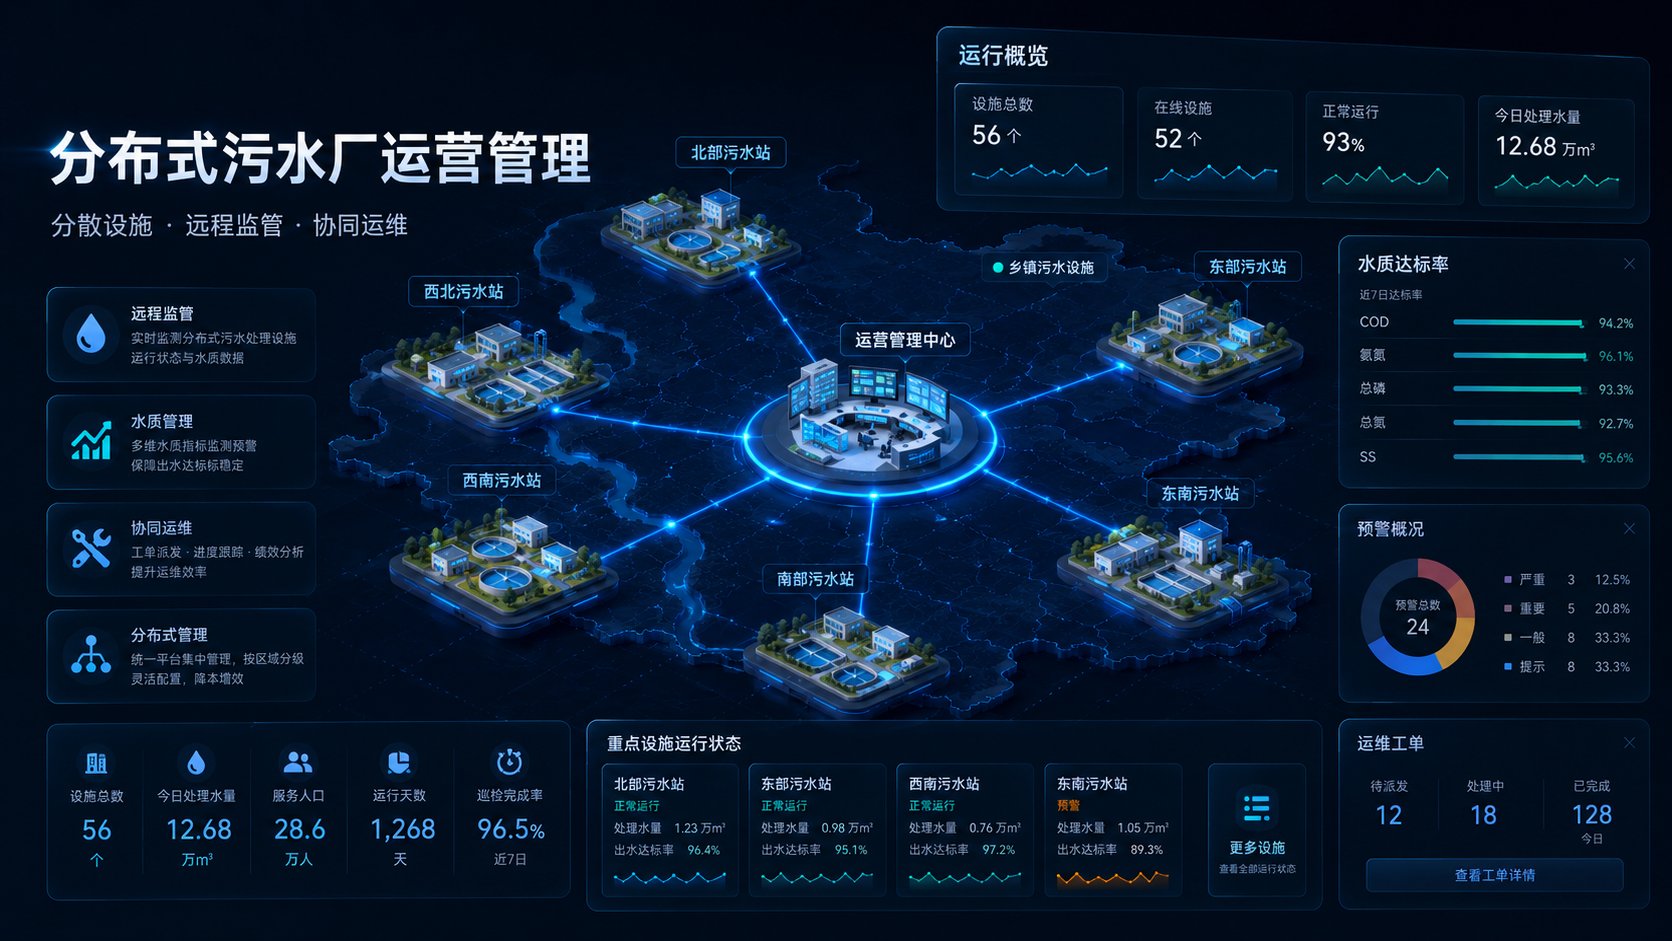
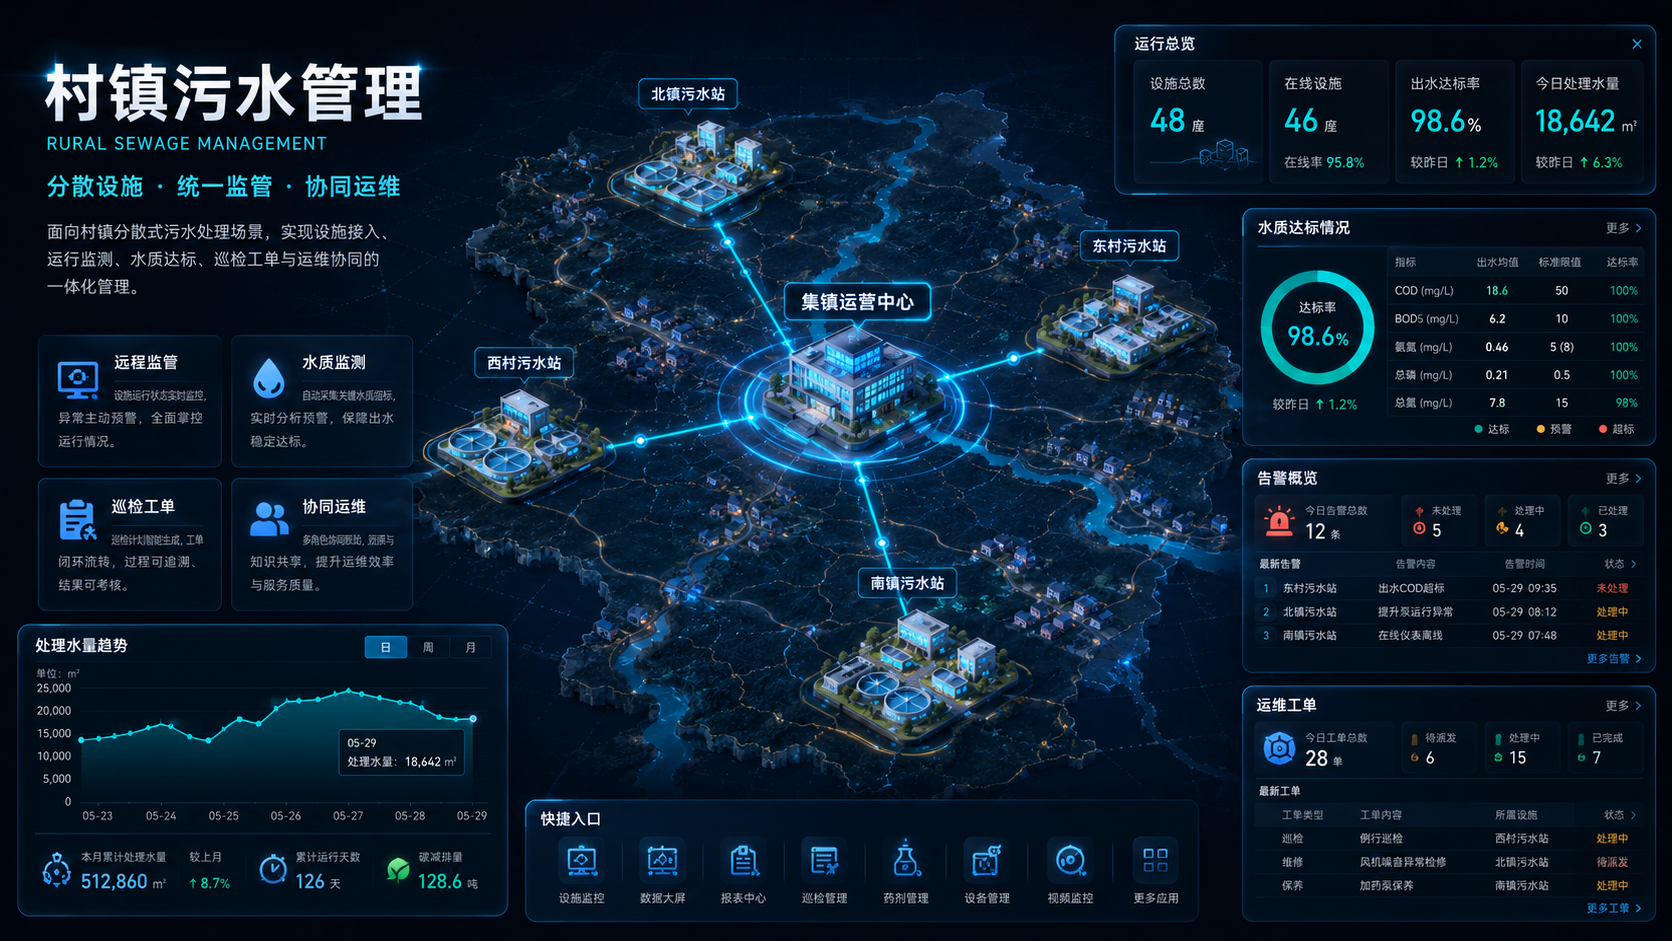
feat: update sewage module label and description; move AI module; add AI product image

diff --git a/components/cw-cloud-slide.tsx b/components/cw-cloud-slide.tsx
@@ -41,7 +41,7 @@ const P = {
 const productModules: ModuleDef[] = [
   { id: "group", label: "集团运营管理", col: 0, row: 0, palette: P.cyan },
   { id: "integrated", label: "厂网河湖一体化", col: 1, row: 0, palette: P.blue },
-  { id: "sewage", label: "分布式污水设施", col: 2, row: 0, palette: P.green },
+  { id: "sewage", label: "村镇污水", col: 2, row: 0, palette: P.green },
   { id: "plant", label: "水厂运营管理", col: 0, row: 1, palette: P.cyan },
   { id: "pump", label: "泵闸站管理", col: 1, row: 1, palette: P.sky },
   { id: "pipe", label: "管网管理", col: 2, row: 1, palette: P.blue },
@@ -49,10 +49,10 @@ const productModules: ModuleDef[] = [
   { id: "flood", label: "城市防汛内涝管理", col: 1, row: 2, palette: P.sky },
   { id: "iot", label: "IoT 物联平台", col: 2, row: 2, palette: P.teal },
   { id: "sso", label: "SSO 统一登录", col: 3, row: 1, palette: P.blue },
-  { id: "ai", label: "水务智能体", col: 0, row: 0, palette: P.ai, float: true },
+  { id: "ai", label: "水务智能体", col: 1, row: 3, palette: P.ai },
 ]
 
-// 模块池仅列出 10 类业务模块（AI 作为可持续叠加的智能层，不计入列表）
+// 模块池列出全部业务模块（含水务智能体，共 11 类）
 const listedModules = productModules.filter((m) => !m.float)
 
 // ---------- 每个模块的详细介绍（图标 + 简述 + 关键能力） ----------
@@ -69,8 +69,8 @@ const productInfo: Record<string, { icon: LucideIcon; desc: string; features: st
   },
   sewage: {
     icon: Recycle,
-    desc: "面向分散式、农村污水厂站点的集中监控、远程运维与达标管理。",
-    features: ["集中监控", "远程运维", "达标排放"],
+    desc: "面向村镇分散式污水处理场景，实现设施接入、运行监测、水质达标、巡检工单与运维协同的一体化管理。",
+    features: ["统一监管", "水质达标", "协同运维"],
   },
   plant: {
     icon: Factory,
@@ -109,8 +109,8 @@ const productInfo: Record<string, { icon: LucideIcon; desc: string; features: st
   },
   ai: {
     icon: BrainCircuit,
-    desc: "大模型驱动的问数、报表、告警、工单与知识助手，叠加在业务模块之上。",
-    features: ["智能问数", "智能报表", "知识助手"],
+    desc: "融合大模型、RAG 与知识图谱，打通感知、认知、决策、执行与进化闭环，支撑智能问答、告警研判、工艺优化与运营决策。",
+    features: ["智能问答", "告警研判", "工艺优化", "运营决策"],
   },
 }
 
@@ -155,6 +155,7 @@ const productImages: Record<string, string> = {
   flood: "/products/flood.png",
   iot: "/products/iot.png",
   sso: "/products/sso.png",
+  ai: "/products/ai.png",
 }
 
 // 单业态阶段轮播展示的候选模块（表达「任一业务模块都可独立建设」）
@@ -318,10 +319,8 @@ export function CwCloudSlide({ active }: { active: boolean }) {
           <div className="mb-4 flex justify-center lg:justify-start">
             <span className="pointer-events-auto inline-flex items-center gap-1.5 whitespace-nowrap rounded-full border border-accent/20 bg-[oklch(0.12_0.04_248/0.7)] px-4 py-1.5 text-[11px] text-muted-foreground backdrop-blur-sm sm:text-[12px]">
               已选{" "}
-              <span className="font-mono font-semibold text-accent">
-                {activeIds.filter((id) => id !== "ai").length}
-              </span>{" "}
-              / {listedModules.length} 个模块 · 点击下方模块加入组合
+              <span className="font-mono font-semibold text-accent">{activeIds.length}</span> / {listedModules.length} 个模块 ·
+              点击下方模块加入组合
             </span>
           </div>
 